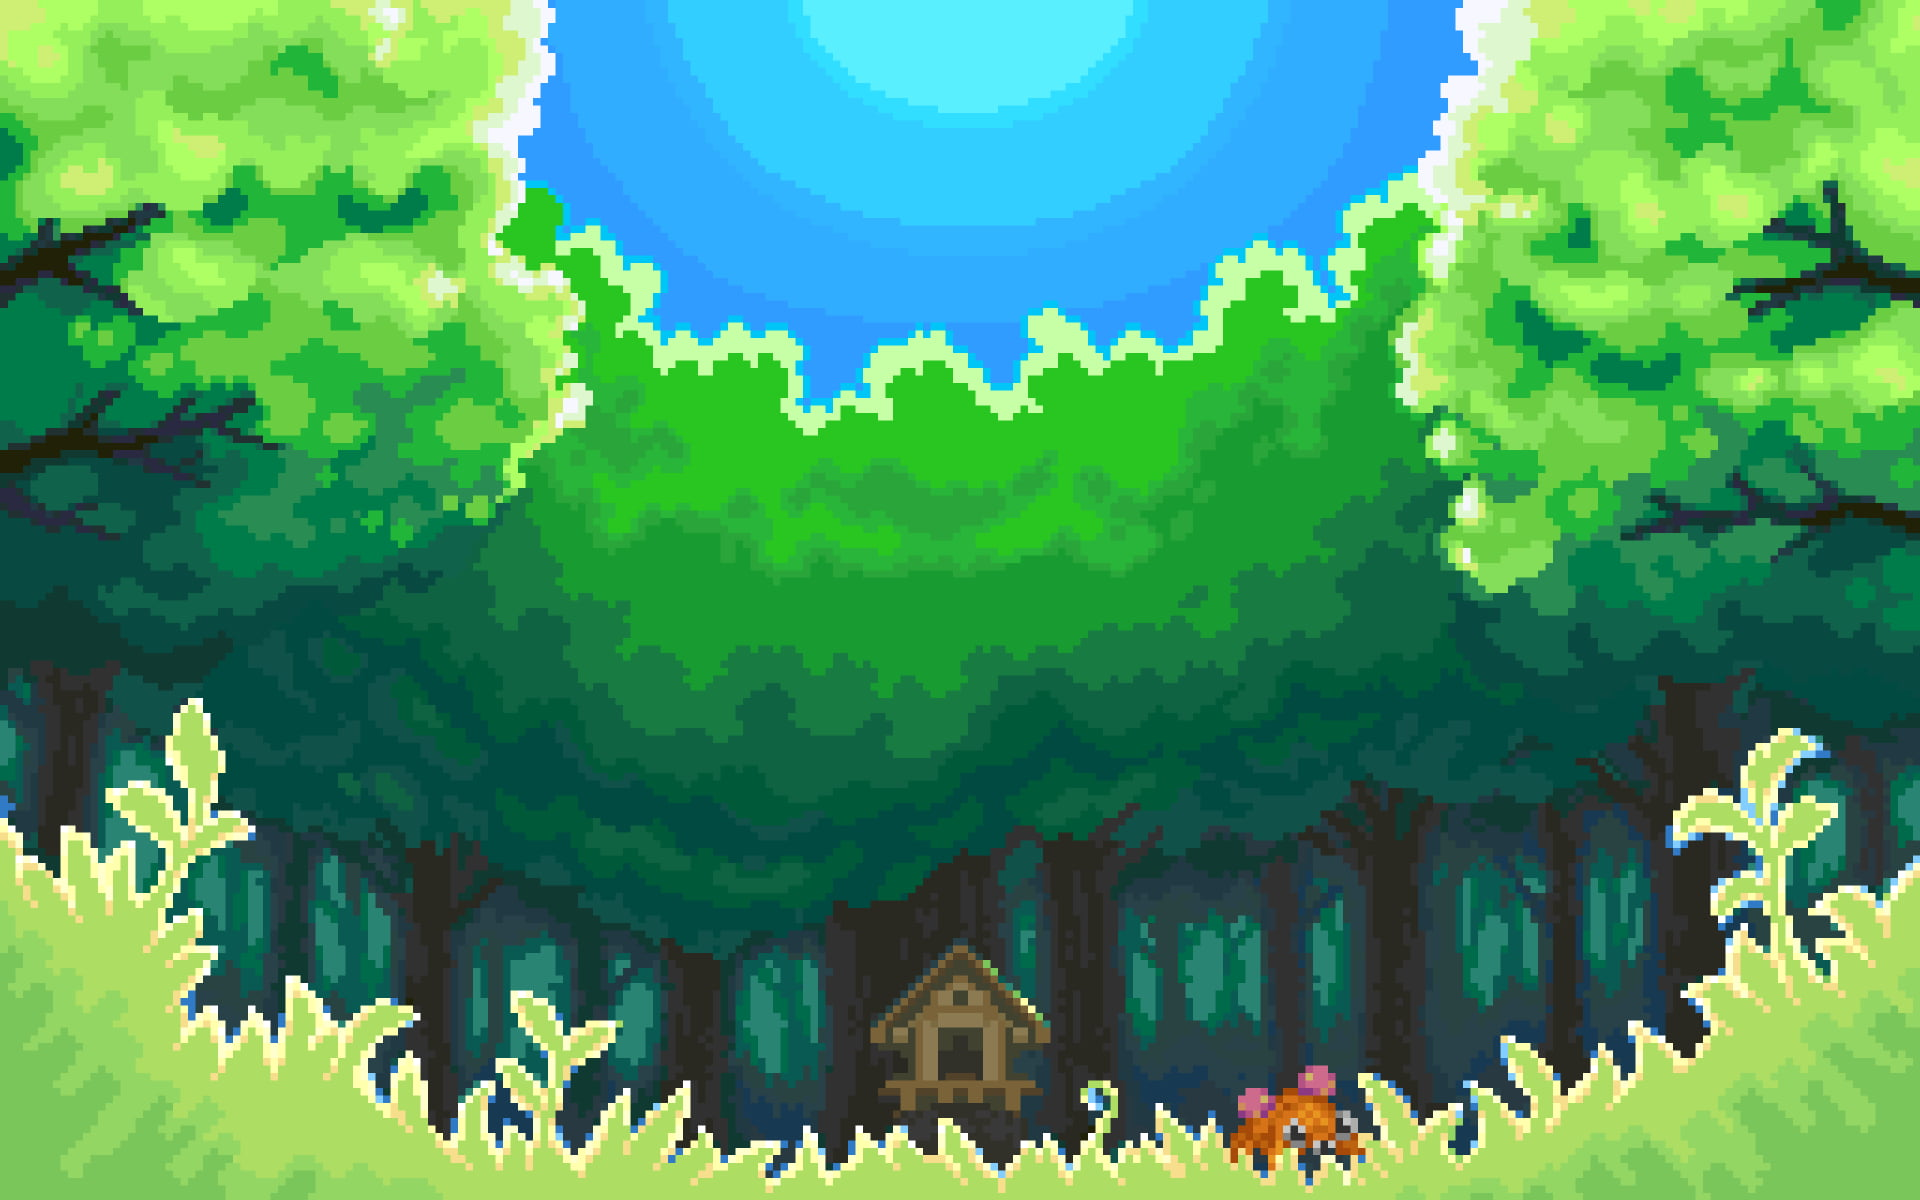
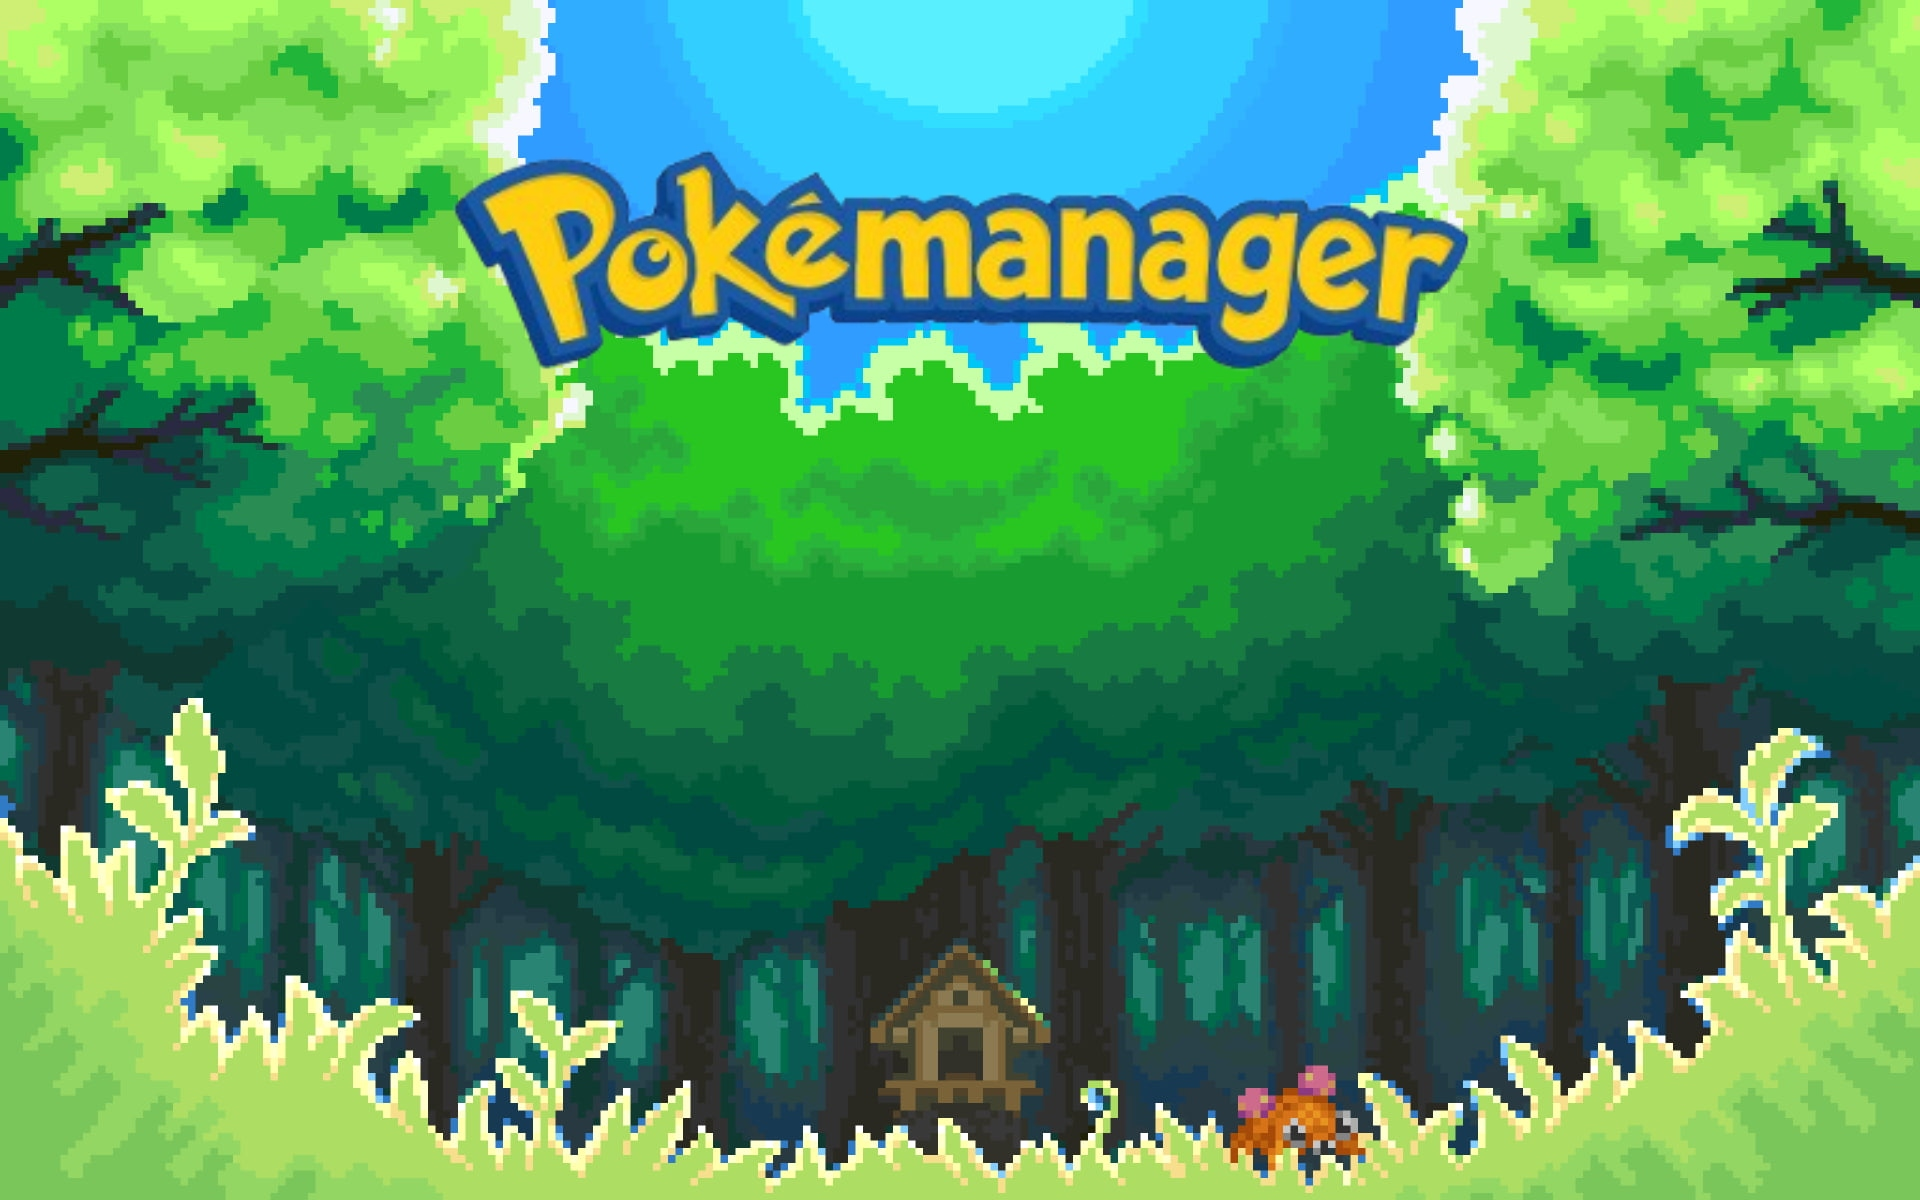
finish: main menu design

Changed region(s): [[0.2188, 0.1233, 0.7812, 0.3083]]

diff --git a/src/Frontend/MainMenu.py b/src/Frontend/MainMenu.py
@@ -1,24 +1,25 @@
 """
-    This module is a general example about the main window of the project
+    This module defines the code of the main window of the program.
 """
 
 import sys
 from PyQt6.QtGui import *
 from PyQt6.QtWidgets import *
 from PyQt6.QtCore import *
+from math import trunc
 
 class MainWindow(QMainWindow):
     def __init__(self, *args, **kwargs):
         super(MainWindow, self).__init__(*args, **kwargs)
-
         # Tamaño inicial y restricciones
         self.setGeometry(100, 100, 600, 450)
         self.setMinimumSize(400, 300)
         self.setMaximumSize(800, 600)
 
         # Título e icono de la ventana
-        self.setWindowTitle("Pokemon Informer")
+        self.setWindowTitle("PokeManager")
         self.setWindowIcon(QIcon("./Images/pokeball.png"))
+        # Añadir imágenes a la ventana
 # Configuración de los botones
         self.pokemon_button = QPushButton("Pokemons", self)
         self.pokemon_button.setGeometry(400, 300, 200, 40)  # Posición y tamaño
@@ -178,13 +179,26 @@ class MainWindow(QMainWindow):
         Dibuja la imagen de fondo escalada al tamaño de la ventana.
         """
         painter = QPainter(self)
-        painter.setOpacity(0.5)
+        painter.setOpacity(0.8)
         scaled_bg = self.background.scaled(
             self.size(),
             Qt.AspectRatioMode.IgnoreAspectRatio,
             Qt.TransformationMode.SmoothTransformation,
         )
         painter.drawPixmap(0, 0, scaled_bg)
+        # Adjust button sizes and positions proportionally to the window size
+        window_width = self.width()
+        window_height = self.height()
+
+        button_width = trunc(window_width * 0.25)
+        button_height = trunc(window_height * 0.1)
+        button_x = trunc(window_width * 0.37)
+        button_y = trunc(window_height * 0.5)
+        spacing = trunc(window_height * 0.15)
+
+        self.pokemon_button.setGeometry(button_x, button_y, button_width, button_height)
+        self.team_button.setGeometry(button_x, spacing + button_y, button_width, button_height)
+        self.exit_button.setGeometry(button_x, 2 * spacing + button_y, button_width, button_height)
 
     def resizeEvent(self, event):
         """

diff --git a/TODO.md b/TODO.md
@@ -7,6 +7,7 @@
 + Aplicación de escritorio.
 
 ## FRONTEND
-+ Acabar el diseño de `MainMenu`
 + Separar en ficheros el código de `MainMenu`
++ Crear el diseño del frame `Pokemon`
++ Crear el diseño del frame `Teams`
 
